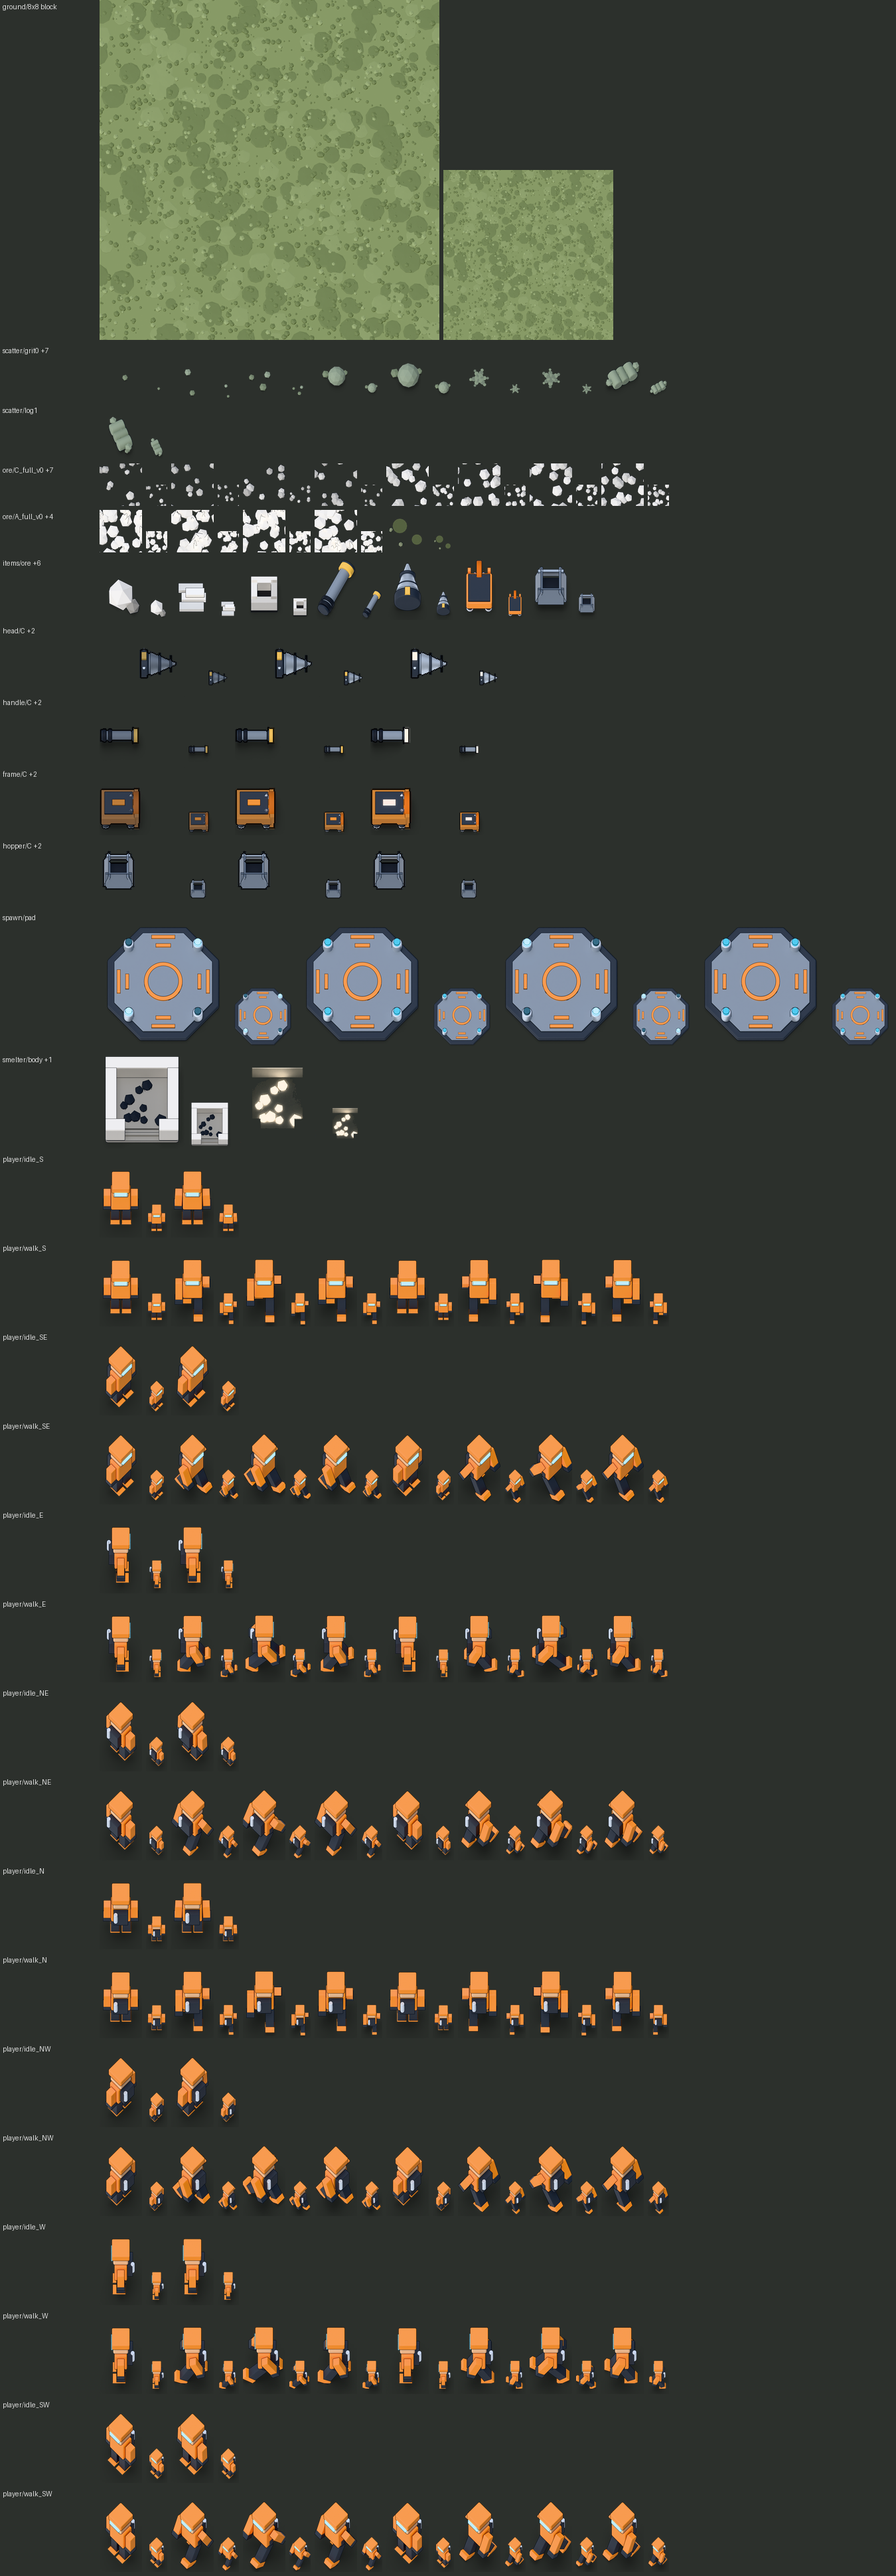
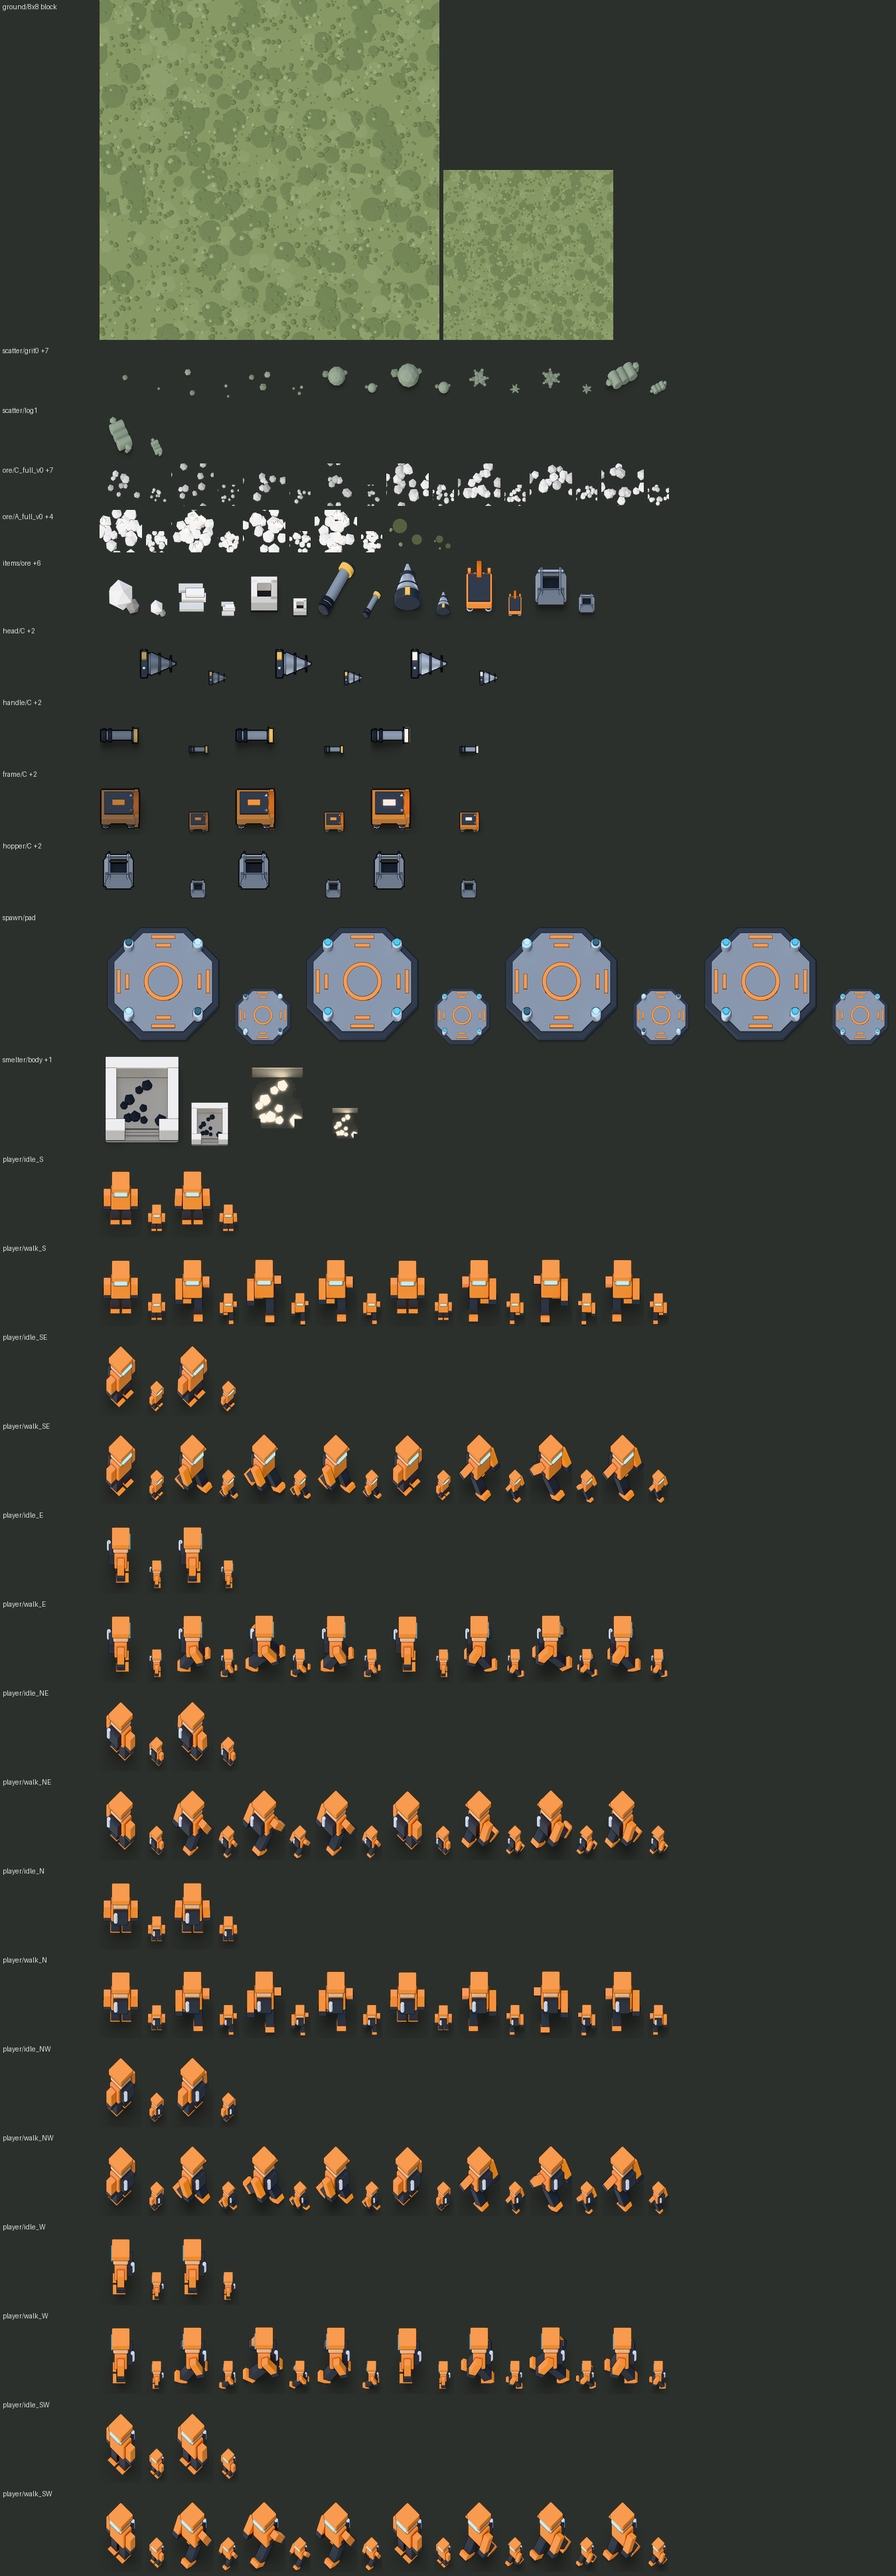
A clump may only be bigger than a tile if it crosses one (ASSA-216, not for merge yet)
Maren's ruling: clump the spots in `ore.py::tile` rather than scattering them
uniformly, same count, sizes and colours, and bring the panel at 1x.

THE FIRST THING I RENDERED WAS WORSE THAN CONFETTI. Pulling each rock toward one
of four centres INSIDE its tile, at 0.80, 0.60 and 0.40, draws a GRID: at 1x the
patch reads as rows of blobs with straight gaps, which is the tile lattice QA has
caught us drawing before, traded for the confetti it was meant to fix. The cause
is structural rather than a bad constant - structure confined to a 32 px cell,
with four variants placed by a hash, gives the eye a lattice to find.

SO THE CLUSTER CENTRES ARE THE MIDPOINTS OF THE TILE'S EDGES. A clump is then
completed by the neighbour's clump on the other side of the join, whichever
variant the hash put there: the one arrangement a hash-placed sheet can make that
is larger than its own cell. No new rows, no block path, no engine change, and
the same count, sizes, colours and `random` draws in the same order - only WHERE
each rock sits changes, so coverage is the only quantity that can move and it
moves only through overlap.

MEASURED ON THE RENDERS, grade A: coverage 65.1% -> 62.0% (about a fifth of the
shipped B->A gap), C untouched, B smaller. Five art checks pass. `check_headroom`
FAILS BY 0.4 OF A POINT ON TWO ROWS (A_full_v3 8.3 -> 8.7, B_full_v3 1.2 -> 1.6,
tolerance 0.3) while four rows improve (A_full_v0 9.9 -> 4.9, A_full_v1 8.8 ->
[…]

Changed region(s): [[0.0933, 0.1559, 0.7467, 0.2183]]

diff --git a/sim-game/art/assets/ore.py b/sim-game/art/assets/ore.py
@@ -151,6 +151,37 @@ def glint(r, s, loc):
                verts=5, rot=(random.uniform(-0.4, 0.4), random.uniform(-0.4, 0.4), ang))
 
 
+# **THE CLUMPS SIT ON THE TILE'S JOINS, NOT INSIDE IT** (ASSA-216). Gathering
+# rocks toward four centres INSIDE a tile was the first thing I rendered and it
+# draws a lattice: the structure stops at 32 px, every copy of a variant has its
+# holes in the same place, and at 1x the patch reads as a grid of blobs -- the
+# tile lattice QA has caught us drawing before, traded for the confetti it was
+# meant to fix. Three pulls, three renders, all of them a grid.
+#
+# A clump may only be bigger than a tile if it CROSSES one. These four centres
+# are the midpoints of the tile's four edges, so a clump is completed by the
+# neighbour's clump on the other side of the join, whichever variant that is --
+# the one arrangement a hash-placed sheet can make that is larger than its own
+# cell. Nothing else changes: same count, same sizes, same colours, same draws.
+CLUMP_EDGES = ((0.5, 0.0), (0.0, 0.5), (-0.5, 0.0), (0.0, -0.5))
+CLUMP_PULL = 0.50  # 1.0 = today's uniform scatter; 0 = every rock on its centre
+
+
+def clump(spots):
+    """The same rocks, gathered onto the joins. Spot i joins edge `i % 4` and is
+    pulled `CLUMP_PULL` of the way toward it, wrapped into the tile, because the
+    tile is seamless and a rock that leaves one side arrives at the other.
+    """
+    if CLUMP_PULL >= 1.0:
+        return spots
+    out = []
+    for i, (x, y, s) in enumerate(spots):
+        cx, cy = CLUMP_EDGES[i % len(CLUMP_EDGES)]
+        nx, ny = cx + (x - cx) * CLUMP_PULL, cy + (y - cy) * CLUMP_PULL
+        out.append(((nx + 0.5) % 1.0 - 0.5, (ny + 0.5) % 1.0 - 0.5, s))
+    return out
+
+
 def tile(step, seed):
     """`step` is the grade index 0..2, or -1 for depleted.
 
@@ -186,6 +217,21 @@ def tile(step, seed):
         count = 9 + step * 5
         smin, smax = 0.065 + step * 0.020, 0.115 + step * 0.032
         spots = [(random.uniform(-0.5, 0.5), random.uniform(-0.5, 0.5), random.uniform(smin, smax)) for _ in range(count)]
+        # **ARRANGEMENT, NOT DENSITY** (ASSA-216, Maren's ruling). The complaint
+        # is "candy"/"confetti", which is a word about texture before it is a
+        # word about value: 19 rocks spread uniformly over a tile leave holes of
+        # one size everywhere, so a patch of them integrates to a flat mass at
+        # 1x however the colours are arranged.
+        #
+        # THIS DOES NOT DRAW ANYTHING NEW. The same `count`, the same sizes and
+        # the same colours come off the same `random` draws in the same order --
+        # only WHERE each rock sits changes, by pulling it toward its cluster's
+        # centre. So coverage is the only quantity that can move, it moves only
+        # through overlap, and `CLUMP_PULL` is the one number to argue about.
+        # (The header's own rule: "if it ever looks stamped-on, the lever is
+        # more arrangement variants, NEVER density". This is that lever used on
+        # the arrangement itself rather than on the count.)
+        spots = clump(spots)
         colors = [shade(step, random.choice((0.0, 0.20, -0.15))) for _ in spots]
     for dx in (-1, 0, 1):
         for dy in (-1, 0, 1):
